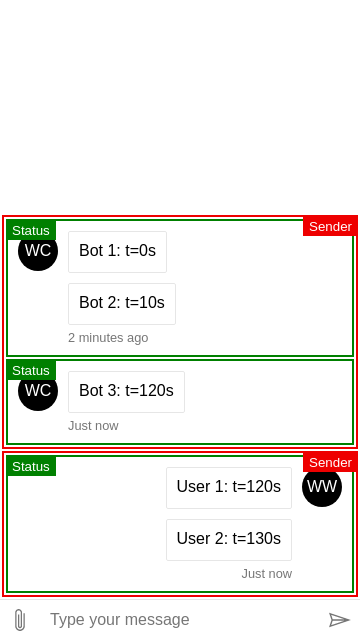
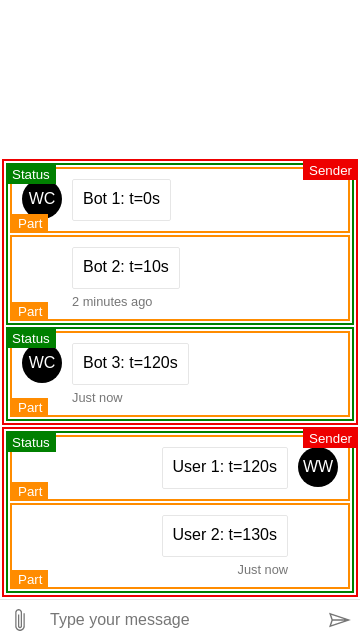
api: add part grouping

Changed region(s): [[0.0, 0.25, 1.0, 0.9375], [0.0306, 0.875, 0.1528, 0.9375]]

diff --git a/packages/api/src/providers/GroupActivities/private/createDefaultGroupActivitiesMiddleware.ts b/packages/api/src/providers/GroupActivities/private/createDefaultGroupActivitiesMiddleware.ts
@@ -1,4 +1,4 @@
-import { type GlobalScopePonyfill, type WebChatActivity } from 'botframework-webchat-core';
+import { getOrgSchemaMessage, type GlobalScopePonyfill, type WebChatActivity } from 'botframework-webchat-core';
 
 import type GroupActivitiesMiddleware from '../../../types/GroupActivitiesMiddleware';
 import { type SendStatus } from '../../../types/SendStatus';
@@ -88,6 +88,22 @@ export default function createDefaultGroupActivitiesMiddleware({
               ...next({ activities }),
               status: bin(activities, createShouldGroupTimestamp(groupTimestamp, ponyfill))
             })
+        : undefined,
+    type =>
+      type === 'part'
+        ? next =>
+            ({ activities }) => {
+              const messages = activities.map(activity => [getOrgSchemaMessage(activity.entities), activity] as const);
+              return {
+                ...next({ activities }),
+                part: bin(
+                  messages,
+                  ([last], [current]) =>
+                    typeof last?.isPartOf?.[0]?.['@id'] === 'string' &&
+                    last.isPartOf[0]['@id'] === current?.isPartOf?.[0]?.['@id']
+                ).map(bin => bin.map(([, activity]) => activity))
+              };
+            }
         : undefined
   ]);
 }

diff --git a/packages/api/src/StyleOptions.ts b/packages/api/src/StyleOptions.ts
@@ -215,7 +215,7 @@ type StyleOptions = {
   connectivityTextSize?: number | string;
   failedConnectivity?: number | string;
   slowConnectivity?: string;
-  notificationText?: string;
+  notificationText?: string; 
 
   /**
    * Slow connection status will render after x amount of time with no service response
@@ -962,7 +962,7 @@ type StyleOptions = {
   speechRecognitionContinuous?: boolean | undefined;
 
   /**
-   * Defines how activities are being grouped by (in the order of appearance in the array). Default to `['sender', 'status']` or `sender,status` in CSS.
+   * Defines how activities are being grouped by (in the order of appearance in the array). Default to `['sender', 'status', 'part']` or `sender,status` in CSS.
    *
    * Values are key of result of `groupActivitiesMiddleware`. The default implementation of `groupActivitiesMiddleware` has `sender` and `status`.
    *

diff --git a/packages/api/src/defaultStyleOptions.ts b/packages/api/src/defaultStyleOptions.ts
@@ -312,7 +312,7 @@ const DEFAULT_OPTIONS: Required<StyleOptions> = {
   // Speech recognition
   speechRecognitionContinuous: false,
 
-  groupActivitiesBy: ['sender', 'status'],
+  groupActivitiesBy: ['sender', 'status', 'part'],
 
   // Send box attachment bar
   sendBoxAttachmentBarMaxHeight: 114,

diff --git a/__tests__/html2/grouping/grouping.css b/__tests__/html2/grouping/grouping.css
@@ -35,3 +35,15 @@
   content: 'Status';
   left: -2px;
 }
+
+.grouping--part {
+  border-color: darkorange;
+}
+
+.grouping--part::after {
+  background-color: darkorange;
+  color: white;
+  content: 'Part';
+  top: unset;
+  bottom: -2px;
+}
